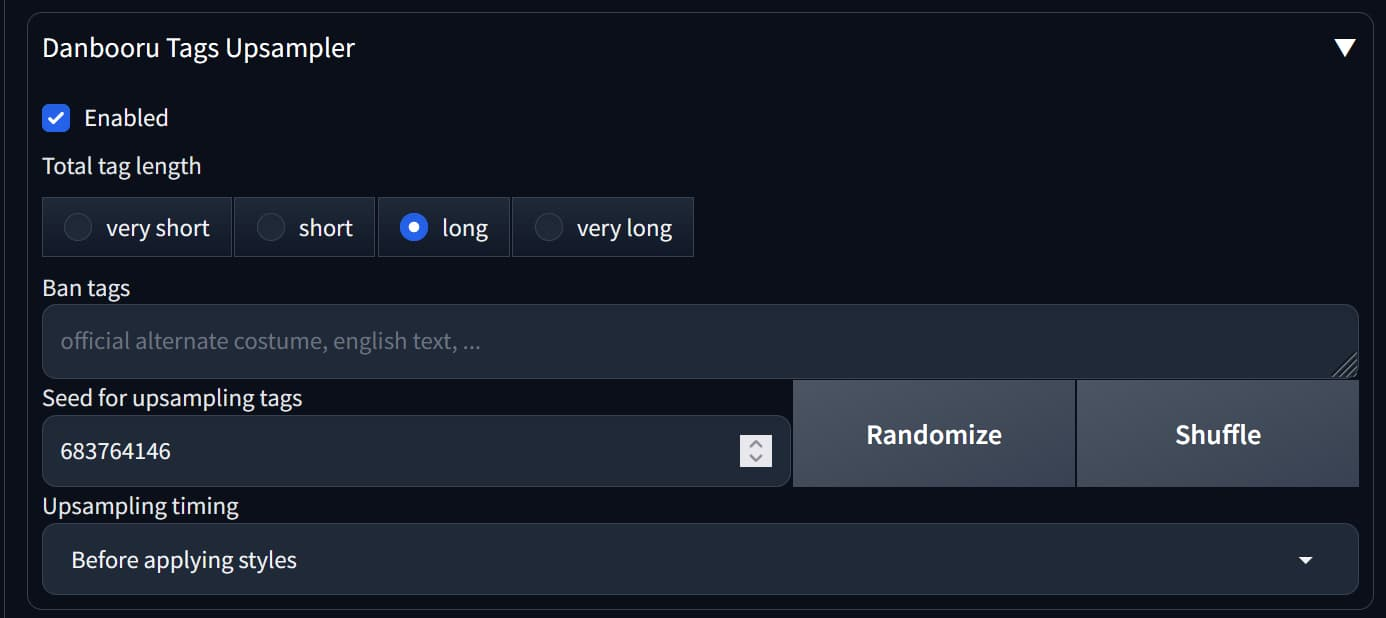
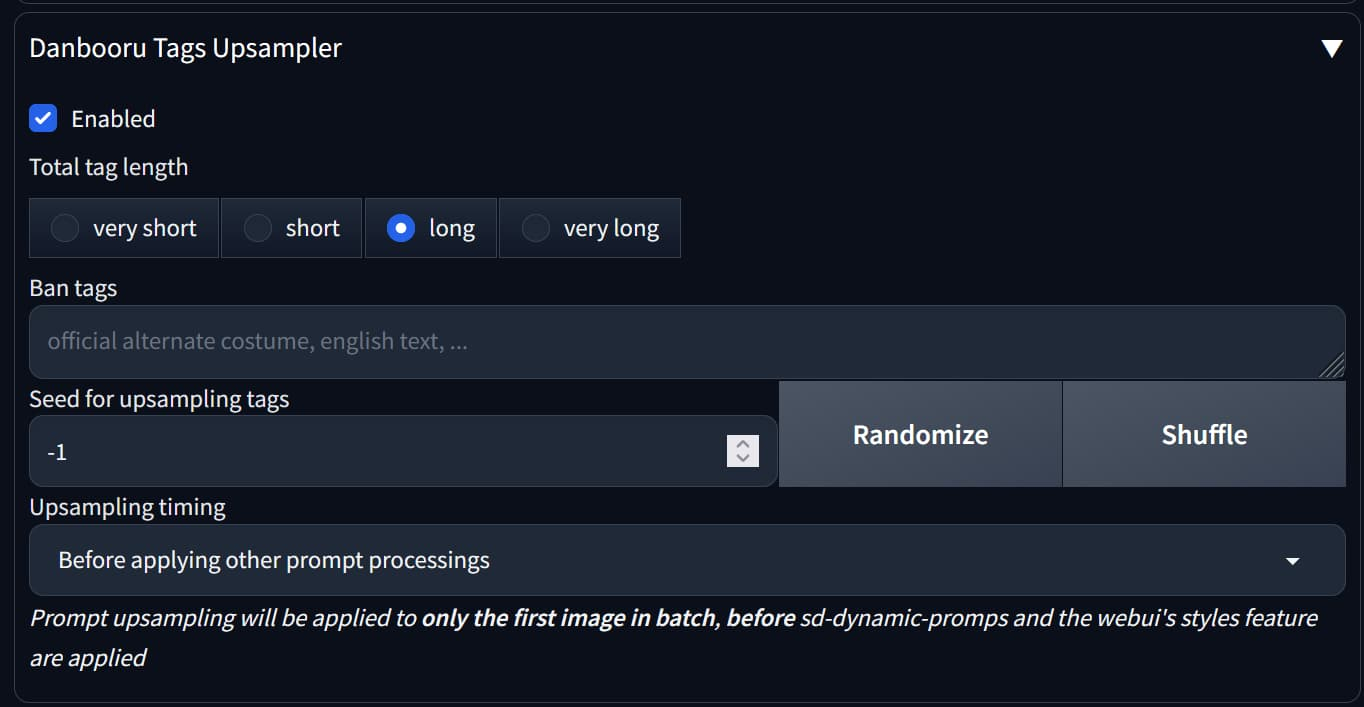
doc: update readme for new user interface

diff --git a/README-ja.md b/README-ja.md
@@ -19,7 +19,7 @@ English version is [here](./README.md).
 | **Total tag length** | これは **タグの補完後のプロンプト内のタグの総量を指定します**。 補完するタグの量ではありません。 `very short` は「タグ10個以下」, `short` は「タグ20個以下」, `long` は「タグ40個以下」、 `very long` は「それよりも多い」を意味します。 | 推奨は `long` です |
 | **Ban tags** | ここで指定された全てのタグは補完時に出現しなくなります。出てきて欲しくないタグがあるときに便利です。 | `official alternate costume, english text, animal focus, ...` |
 | **Seed for upsampling tags** | この値とポジティブプロンプトが固定された場合、補完されるタグも固定されます。`-1` は毎回ことなるシードで補完することを意味します。 | 毎回異なる補完をしてほしい場合は `-1` に設定します。 |
-| **Upsampling timing** | Styles の適用後か適用前のうち、いつアップサンプルを実行するかどうかです。 | `Before applying styles` (Styles の適用前にアップサンプルします) |
+| **Upsampling timing** | sd-dynamic-prompts や webui の styles 機能などの、他のプロンプト加工処理が実行される前にアップサンプルするか、後にアップサンプルするかどうかです。 | `Before applying other prompt processing` |
 
 ## ショーケース
 

diff --git a/README.md b/README.md
@@ -19,7 +19,7 @@ Explanation of parameters:
 | **Total tag length** | This parameter can specify the amount of **total tags after completing the positive prompt**. Not the amount of completing tags. `very short` means "less than 10 tags", `short` means "less than 20 tags", `long` means "less than 40 tags" and `very long` is more than that. | `long` is recommended |
 | **Ban tags** | All tags in this field will never appear in completion tags. It's useful when you don't want to contain some specific tags. | `official alternate costume, english text, animal focus, ...` |
 | **Seed for upsampling tags** | If this number and the positive prompt are fixed, the completion tags are also fixed. `-1` means "generates tags using random seed every time" | If you want to generate images with different final prompts every time, set to `-1`. |
-| **Upsampling timing** | When to upsample, before or after styles are applied. | `Before applying styles` |
+| **Upsampling timing** | When to upsample, before or after other prompt processing (e.g. sd-dynamic-prompts or webui's styles feature) are applied.  | `Before applying other prompt processings` |
 
 ## Showcases
 
